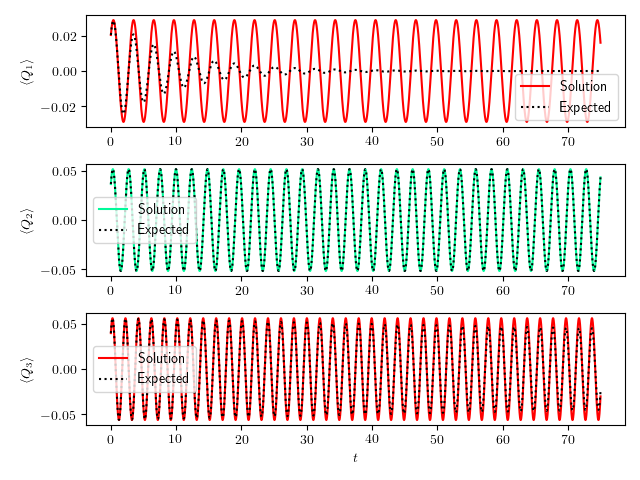
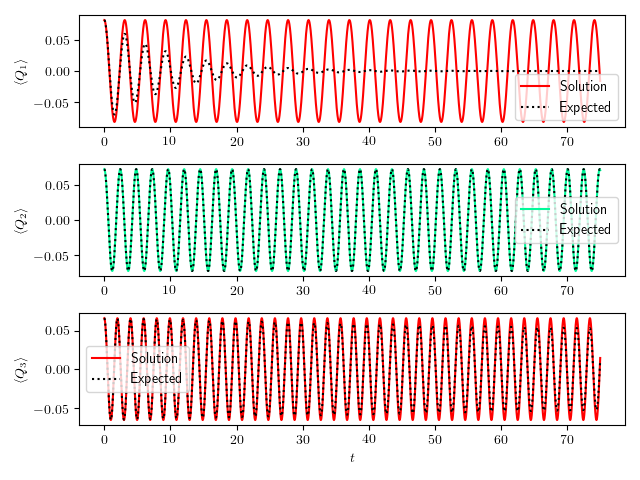
Fixed *all* the problems

diff --git a/Python/operators.py b/Python/operators.py
@@ -2,7 +2,7 @@ from numpy import sqrt, zeros, kron, trace, arange, diag, array
 from common import tol, tol_h
 from moments_common import *
 
-s = 3  # The amount of states that we consider per node
+s = 11  # The amount of states that we consider per node
 K = s ** N  # The amount of states
 
 
@@ -111,6 +111,12 @@ def is_density(dens):
             is_pos_def(dens))
 
 
+def assert_density(dens):
+    assert is_hermitian(dens)
+    assert is_unit_trace(dens)
+    assert is_pos_def(dens)
+
+
 ## Some operators on operators
 def com(a, b):
     return a.dot(b) - b.dot(a)
@@ -135,7 +141,7 @@ def dissipation(rho):
     # Sum over all the nodes
     for n in range(N):
         Sum += 1j * Gamma[n] * (com(Q[n], anti(P[n], rho)) - com(P[n], anti(Q[n], rho)))
-        Sum += D[n] * (com(Q[n], com(Q[n], rho)) - com(P[n], com(P[n], rho)) / Omega[n] ** 2)
+        # Sum += D[n] * (com(Q[n], com(Q[n], rho)) - com(P[n], com(P[n], rho)) / Omega[n] ** 2)
 
     return - 1 / 4 * Sum
 

diff --git a/Python/DensitySims.py b/Python/DensitySims.py
@@ -9,7 +9,8 @@ Rho = rho_init()
 # Rho = rho_alt()
 assert is_density(Rho)
 # Test if one EF iteration preserves the properties of a density matrix
-assert is_density(Rho + dt*liouvillian(Rho))
+# If not, this means that the time step should be taken smaller
+assert_density(Rho + dt*liouvillian(Rho))
 
 # Defines which moments we will calculate, also defines
 # the number of moments and the corresponding operator:

diff --git a/Python/moments_common.py b/Python/moments_common.py
@@ -3,8 +3,8 @@ import numpy as np
 print_strings = False
 
 N = 3
-T_F = 75
-it = 15000
+T_F = 15
+it = 150
 it_med = it * 45//T_F
 it_short = it * 15//T_F
 dt = T_F/it
